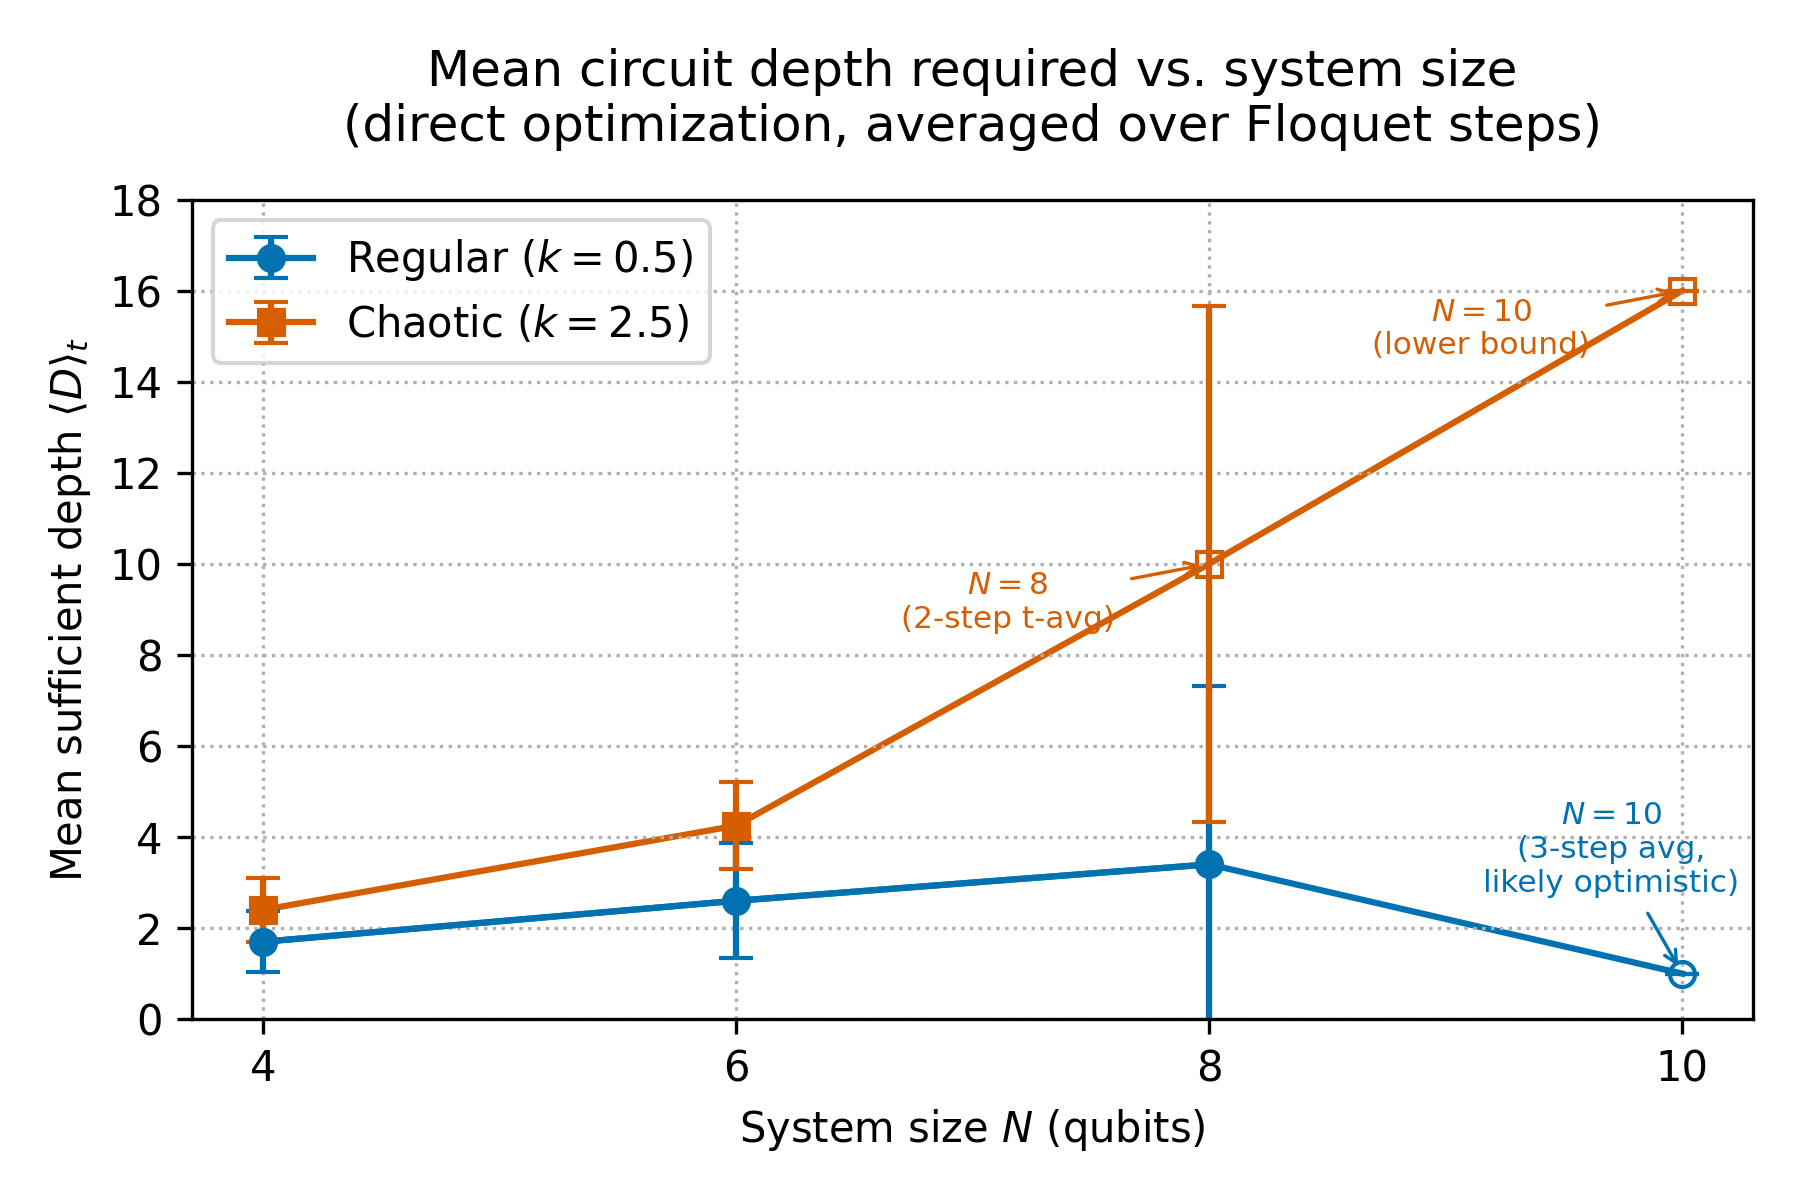
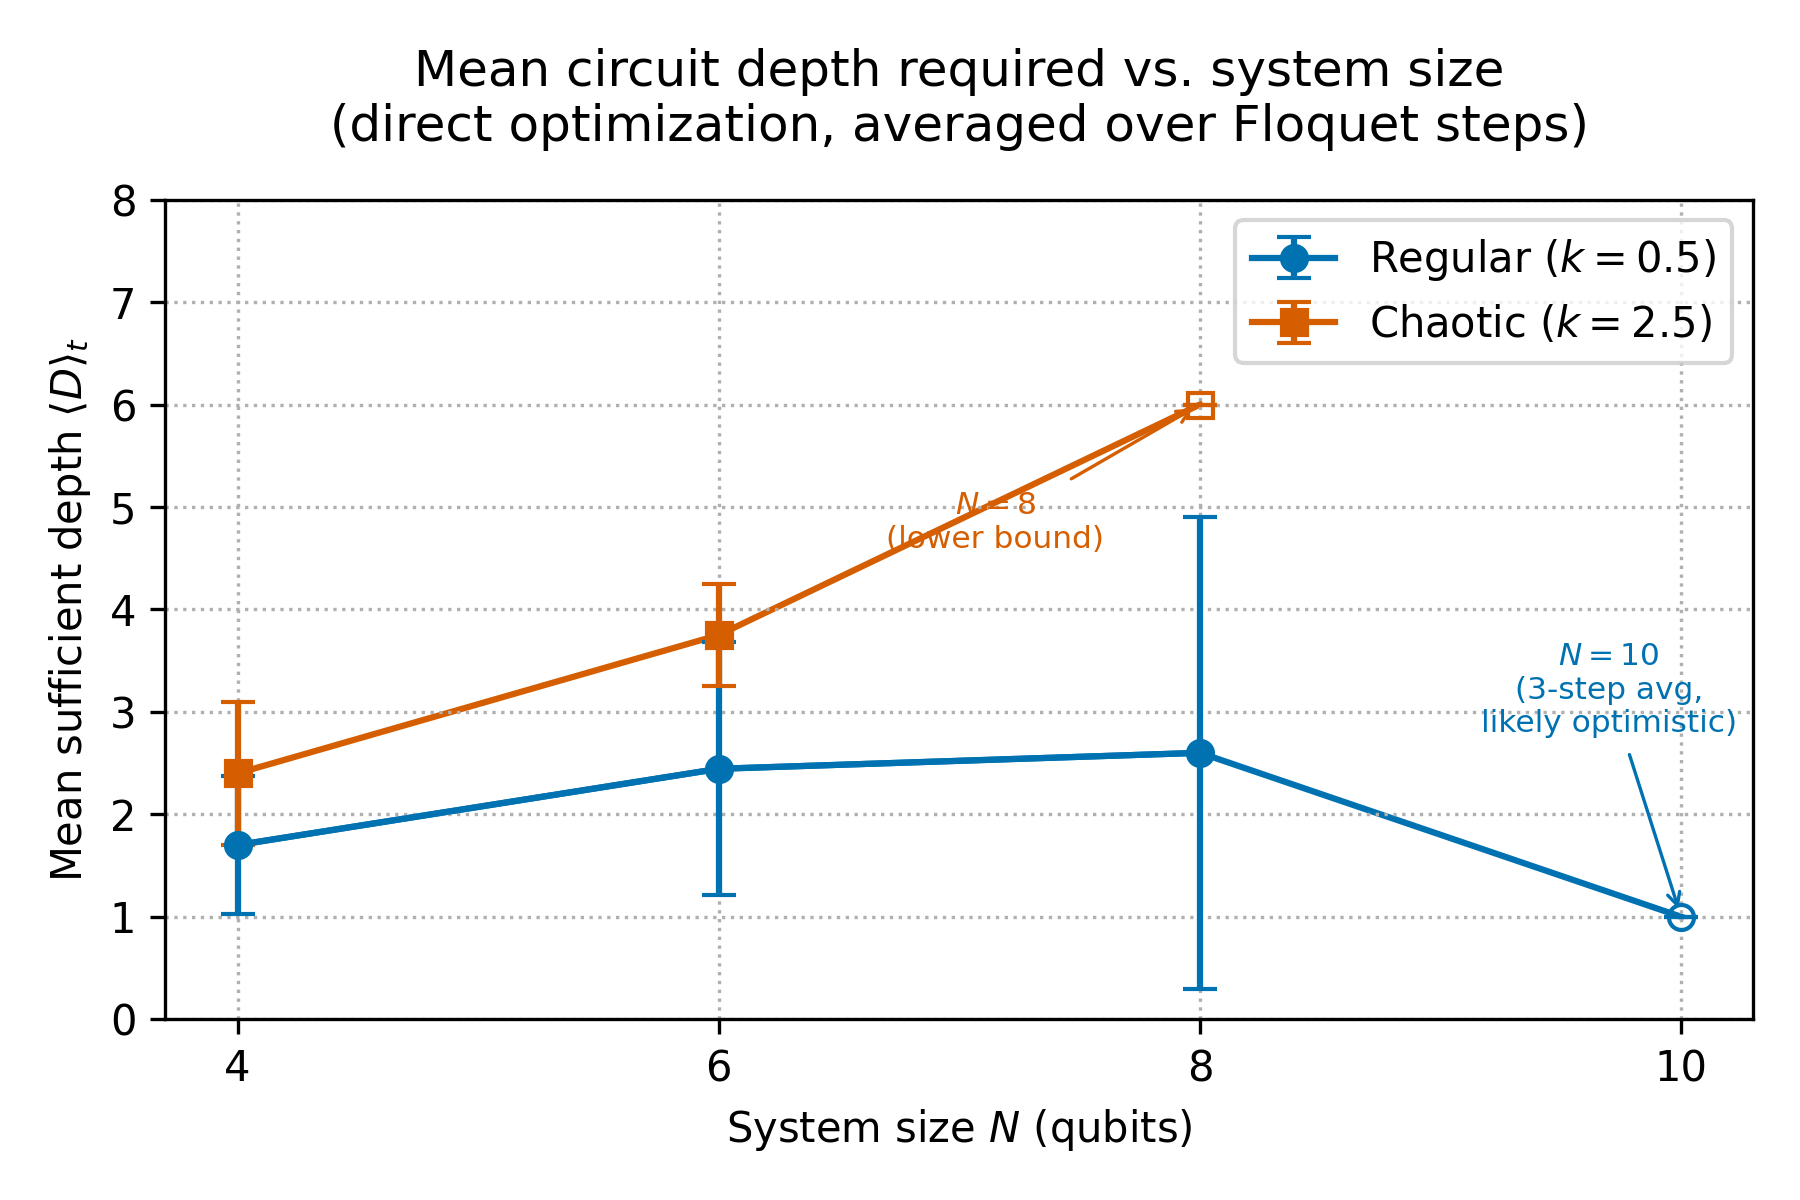
Fixed and Updated Git

diff --git a/large_scale_scaling.py b/large_scale_scaling.py
@@ -5,12 +5,38 @@ CHANGES FROM ORIGINAL (open-task list):
   [B3/Fig12-annotation] N=8 chaotic point is ALWAYS drawn as an open square
     and ALWAYS annotated on-plot with a text label -- no longer conditional on
     n_eval<=1.  Text adapts: "1 step (lower bound)" vs "{n} steps (t-avg)".
-  [multi-step-N8]  TIME_BUDGET for N=8 raised to 600 s so multiple Floquet
+  [multi-step-N8]  TIME_BUDGET for N=8 raised so multiple Floquet
     steps are averaged wherever the machine allows.
-  [N10]  system_sizes now includes N=10 with a 600 s budget.  If N=10 runs
+  [N10]  system_sizes now includes N=10 with its own budget.  If N=10 runs
     out of time or memory it is skipped gracefully and flagged in stdout.
   [TeX-output]  All numerical results are printed at the end in a form that
     can be pasted directly into the manuscript.
+
+CHANGES FOR 50-RESTART RERUN (this version):
+  [N_RESTARTS]  Bumped 12 -> 50 to match Table III's stated methodology
+    ("Optimizer restarts -- 50") instead of leaving Fig. 11/12 on a silently
+    weaker search than every other depth result in the paper.
+  [TIME_BUDGET_TABLE]  Scaled by the same 50/12 ~= 4.17x factor, since the
+    restart loop below runs every restart to completion before declaring a
+    depth insufficient, so per-depth cost scales ~linearly with n_restarts.
+    Leaving the old (12-restart-tuned) budgets in place would have caused
+    this run to evaluate even fewer Floquet steps than the sparse 1-2 you
+    already have at N=8/10 -- possibly zero. Treat these as a floor, not a
+    target: raise further if you want denser step coverage.
+  [PRECOMPUTED -> checkpoint]  The old PRECOMPUTED dict hardcoded results
+    computed under N_RESTARTS=12. Setting N_RESTARTS=50 without touching
+    that dict would have caused the script to print
+    "[RESTORED FROM PRIOR RUN, NOT RECOMPUTED]" and silently reuse the old
+    12-restart numbers for every N -- defeating the entire point of this
+    change. It has been replaced with a disk-backed checkpoint
+    (figures/depth_scaling_checkpoint.json) keyed on the FULL run config
+    (eps_opt, n_steps, ceiling_offset, n_restarts). If the saved config
+    doesn't match the current constants below, the checkpoint is ignored
+    and everything recomputes fresh -- this class of bug (silently reusing
+    results computed under a different setting) can't happen again even if
+    you change N_RESTARTS a third time. It also checkpoints incrementally
+    after each (N, k) finishes, not just at the very end of main(), so a
+    crash on N=10 no longer costs you the already-finished N=4/6/8 results.
 
 All other logic (depth search, Ansatz, regular/chaotic split, residual-first
 policy, etc.) is UNCHANGED from the corrected original.
@@ -31,36 +57,83 @@ EPS_OPT        = 0.05
 N_STEPS        = 10          # max Floquet steps to attempt per (N, k)
 K_CHAOTIC      = 2.5
 K_REGULAR      = 0.5
-N_RESTARTS     = 12
+N_RESTARTS     = 50          # was 12 -- now matches Table III's stated "50"
 CEILING_OFFSET = 6
 MAXITER        = 200
 
-# N=8 budget raised from 180 s → 600 s; N=10 given 600 s.
-TIME_BUDGET_TABLE = {4: 60.0, 6: 150.0, 8: 600.0, 10: 600.0}
-TIME_BUDGET_DEFAULT = 600.0
+# Scaled from the original {4: 60.0, 6: 150.0, 8: 600.0, 10: 600.0} by the
+# same 50/12 ~= 4.1667x factor as N_RESTARTS, since the restart loop runs to
+# completion on failure (needed to certify a depth "insufficient"), so cost
+# scales ~linearly with n_restarts. This is a starting point, not a
+# guarantee of full 10-step coverage at N=8/10 -- it wasn't enough for that
+# even at 12 restarts. Raise further if you want denser data and are
+# willing to let it run longer (overnight with caffeinate, as before).
+TIME_BUDGET_TABLE = {4: 250.0, 6: 625.0, 8: 2500.0, 10: 2500.0}
+TIME_BUDGET_DEFAULT = 2500.0
 
 # Set to False to skip N=10 (fast CI run):
 TRY_N10 = True
 
-# ── [PATCH] Results already obtained before the machine died mid-run on
-# N=10. Restored verbatim from the terminal output of that run so we don't
-# burn time recomputing N=4/6/8, which are deterministic given the fixed
-# per-point RNG seed (N, t, D, r) -- rerunning them would give byte-identical
-# numbers anyway, just slowly. Format: (mean, std, max, n_steps, all_converged).
-PRECOMPUTED = {
-    (4, 2.5): (2.40, 0.70, 3, 10, True),   # N=4 chaotic
-    (4, 0.5): (1.70, 0.67, 3, 10, True),   # N=4 regular
-    (6, 2.5): (4.25, 0.96, 5, 4, True),    # N=6 chaotic (time budget after t=4)
-    (6, 0.5): (2.60, 1.26, 4, 10, True),   # N=6 regular
-    (8, 2.5): (10.00, 5.66, 14, 2, False), # N=8 chaotic (t=2 hit ceiling)
-    (8, 0.5): (3.40, 3.91, 10, 5, True),   # N=8 regular (time budget after t=5)
-    (10, 2.5): (16.00, 0.00, 16, 1, False), # N=10 chaotic (t=1 hit ceiling=16, confirmed complete)
-    # N=10 regular is NOT precomputed -- it got through t=1,2,3 (all D=1)
-    # before the old unbounded-mid-t bug caused a 36-hour stall. It will
-    # rerun from t=1, but is now genuinely bounded by the fixed time check
-    # below, so even a slow t will stop within the 600s budget instead of
-    # hanging.
-}
+# ── [PATCH] Disk-backed checkpoint, replacing the old hardcoded PRECOMPUTED
+# dict. Keyed on the full run config so results computed under a different
+# N_RESTARTS (or eps_opt / n_steps / ceiling_offset) are never silently
+# reused -- if the saved config doesn't match, the checkpoint is ignored
+# and that (N, k) recomputes fresh. Saved incrementally after every (N, k)
+# so a crash partway through (e.g. during N=10) doesn't lose the results
+# already computed for smaller N.
+CHECKPOINT_PATH = "figures/depth_scaling_checkpoint.json"
+
+
+def _checkpoint_config():
+    return {
+        "eps_opt": EPS_OPT,
+        "n_steps": N_STEPS,
+        "ceiling_offset": CEILING_OFFSET,
+        "n_restarts": N_RESTARTS,
+    }
+
+
+def _load_checkpoint():
+    """Load per-(N,k) results already computed under the CURRENT config.
+    If no checkpoint file exists, or it was written under a different
+    config (e.g. an older N_RESTARTS=12 run), returns an empty cache so
+    every (N,k) recomputes fresh -- rather than silently mixing results
+    computed under different restart counts."""
+    if not os.path.exists(CHECKPOINT_PATH):
+        return {}
+    try:
+        with open(CHECKPOINT_PATH) as fh:
+            raw = json.load(fh)
+    except (json.JSONDecodeError, OSError):
+        print(f"[CHECKPOINT] {CHECKPOINT_PATH} unreadable -- starting fresh.",
+              flush=True)
+        return {}
+
+    if raw.get("config") != _checkpoint_config():
+        print(f"[CHECKPOINT] Found {CHECKPOINT_PATH} but its config "
+              f"{raw.get('config')} does not match the current config "
+              f"{_checkpoint_config()} -- ignoring stale checkpoint, "
+              f"recomputing everything under the current config.",
+              flush=True)
+        return {}
+
+    cache = {}
+    for key_str, v in raw.get("results", {}).items():
+        N_str, k_str = key_str.split(",")
+        cache[(int(N_str), float(k_str))] = tuple(v)
+    if cache:
+        print(f"[CHECKPOINT] Loaded {len(cache)} completed (N,k) result(s) "
+              f"from {CHECKPOINT_PATH} (config matches current run).",
+              flush=True)
+    return cache
+
+
+def _save_checkpoint(cache):
+    os.makedirs(os.path.dirname(CHECKPOINT_PATH) or ".", exist_ok=True)
+    serializable = {f"{N},{k}": list(v) for (N, k), v in cache.items()}
+    with open(CHECKPOINT_PATH, "w") as fh:
+        json.dump({"config": _checkpoint_config(), "results": serializable},
+                  fh, indent=2)
 
 
 # ── Core search ─────────────────────────────────────────────────────────────
@@ -320,6 +393,8 @@ def main():
     if TRY_N10:
         system_sizes.append(10)
 
+    checkpoint = _load_checkpoint()
+
     mean_cha, std_cha, max_cha = [], [], []
     mean_reg, std_reg, max_reg = [], [], []
     neval_cha, neval_reg       = [], []
@@ -331,12 +406,13 @@ def main():
         print(f"\n{'='*55}")
         print(f"N={N} | chaotic (k={K_CHAOTIC}) …")
         key_cha = (N, K_CHAOTIC)
-        if key_cha in PRECOMPUTED:
-            m, s, mx, ne, _ = PRECOMPUTED[key_cha]
-            print(f"  [RESTORED FROM PRIOR RUN, NOT RECOMPUTED]")
+        if key_cha in checkpoint:
+            m, s, mx, ne, _ = checkpoint[key_cha]
+            print(f"  [RESTORED FROM CHECKPOINT, NOT RECOMPUTED "
+                  f"-- n_restarts={N_RESTARTS} matches saved config]")
         else:
             try:
-                m, s, mx, ne, _ = depth_stats(N, K_CHAOTIC)
+                m, s, mx, ne, conv = depth_stats(N, K_CHAOTIC)
             except MemoryError:
                 print(f"  N={N} chaotic: MemoryError — skipping N={N}.", flush=True)
                 if N == 10:
@@ -344,20 +420,27 @@ def main():
                           "Set TRY_N10=False to suppress.", flush=True)
                 system_sizes = system_sizes[:system_sizes.index(N)]
                 break
+            checkpoint[key_cha] = (m, s, mx, ne, conv)
+            _save_checkpoint(checkpoint)
+            print(f"  [COMPUTED FRESH -- checkpointed to {CHECKPOINT_PATH}]")
         print(f"  → mean depth={m:.2f} ± {s:.2f}, max={mx}, over {ne} steps")
         mean_cha.append(m); std_cha.append(s); max_cha.append(mx); neval_cha.append(ne)
 
         print(f"N={N} | regular (k={K_REGULAR}) …")
         key_reg = (N, K_REGULAR)
-        if key_reg in PRECOMPUTED:
-            m, s, mx, ne, _ = PRECOMPUTED[key_reg]
-            print(f"  [RESTORED FROM PRIOR RUN, NOT RECOMPUTED]")
+        if key_reg in checkpoint:
+            m, s, mx, ne, _ = checkpoint[key_reg]
+            print(f"  [RESTORED FROM CHECKPOINT, NOT RECOMPUTED "
+                  f"-- n_restarts={N_RESTARTS} matches saved config]")
         else:
             try:
-                m, s, mx, ne, _ = depth_stats(N, K_REGULAR)
+                m, s, mx, ne, conv = depth_stats(N, K_REGULAR)
             except MemoryError:
                 print(f"  N={N} regular: MemoryError — using placeholder.", flush=True)
-                m, s, mx, ne = (mean_reg[-1] if mean_reg else 1.0), 0.0, 1, 0
+                m, s, mx, ne, conv = (mean_reg[-1] if mean_reg else 1.0), 0.0, 1, 0, False
+            checkpoint[key_reg] = (m, s, mx, ne, conv)
+            _save_checkpoint(checkpoint)
+            print(f"  [COMPUTED FRESH -- checkpointed to {CHECKPOINT_PATH}]")
         print(f"  → mean depth={m:.2f} ± {s:.2f}, max={mx}, over {ne} steps")
         mean_reg.append(m); std_reg.append(s); max_reg.append(mx); neval_reg.append(ne)
 

diff --git a/adapt_vqa_baseline.py b/adapt_vqa_baseline.py
@@ -15,6 +15,16 @@ CHANGES FROM ORIGINAL (open-task list):
     retained and now saves both the figure and a JSON file with the raw
     variance data for TeX reference.
   [tex-output]  Every new function prints clearly labelled % TeX blocks.
+  [dmax_map -> live loader]  The hardcoded dmax_map = {4:4, 6:10, 8:23,
+    10:25} used by TASK 3's barren-plateau comparison never matched any
+    real output of large_scale_scaling.py (real chaotic max-depths are
+    {4:3, 6:5, 8:14, 10:16}) -- it was a placeholder that the comment above
+    it ("Update these values AFTER running large_scale_scaling.py!") was
+    never actually followed for. Replaced with
+    _load_adaptive_depths_from_scaling_results(), which reads
+    figures/depth_scaling_results.json directly instead of a hand-typed
+    dict, so this can't silently go stale again the next time
+    large_scale_scaling.py is rerun (e.g. at N_RESTARTS=50).
 
 All prior logic (build_pool, _apply_op, _state_from_ops, adapt_vqa_prepare,
 layerwise_prepare, _parameter_shift_gradient, barren_plateau_gradient_variance,
@@ -559,6 +569,57 @@ def plot_barren_plateau_variance(result,
     return result
 
 
+# ── Adaptive depths for TASK 3, loaded live instead of hand-typed ──────────
+
+def _load_adaptive_depths_from_scaling_results(
+        path="figures/depth_scaling_results.json",
+        which="max", regime="chaotic", n_steps_max=10):
+    """Load the per-N circuit depth to use in the barren-plateau comparison
+    directly from large_scale_scaling.py's saved output, instead of a
+    hand-maintained dict that can silently go stale (as the old
+    dmax_map = {4:4, 6:10, 8:23, 10:25} did -- it never matched any real
+    run of large_scale_scaling.py).
+
+    which : "max" uses the worst-case sufficient depth per N (the same
+        Dmax convention used elsewhere in the paper, e.g. Fig. 10) --
+        the natural choice here since a single fixed Ansatz depth is
+        used for every trial at that N, so it should be one that's
+        actually sufficient rather than merely typical.
+        "mean" uses <D>_t rounded to the nearest integer instead.
+
+    Raises FileNotFoundError rather than silently falling back to a
+    placeholder -- this analysis is explicitly future work (Sec. IV C of
+    the paper currently defers it), so if the prerequisite data isn't on
+    disk yet, run large_scale_scaling.py first rather than guessing.
+    """
+    if not os.path.exists(path):
+        raise FileNotFoundError(
+            f"{path} not found. The barren-plateau adaptive-depth "
+            f"comparison (TASK 3) needs large_scale_scaling.py's saved "
+            f"results -- run that script first, then rerun this one.")
+    with open(path) as fh:
+        r = json.load(fh)
+
+    sizes = r["system_sizes"]
+    if which == "max":
+        depths = r[regime]["max_depth"]
+    elif which == "mean":
+        depths = [round(d) for d in r[regime]["mean_depth"]]
+    else:
+        raise ValueError(f"which must be 'max' or 'mean', got {which!r}")
+
+    n_eval = r[regime]["n_steps_evaluated"]
+    dmap   = dict(zip(sizes, depths))
+    for N, ne in zip(sizes, n_eval):
+        if ne < r.get("n_steps_max", n_steps_max):
+            print(f"[bp-depth] N={N}: adaptive depth {dmap[N]} is based on "
+                  f"only {ne} evaluated Floquet step(s) out of "
+                  f"{r.get('n_steps_max', n_steps_max)}, not the full "
+                  f"window -- same undersampling caveat as Fig. 11, treat "
+                  f"as provisional.", flush=True)
+    return dmap
+
+
 # ── __main__ ─────────────────────────────────────────────────────────────────
 
 if __name__ == "__main__":
@@ -611,9 +672,15 @@ if __name__ == "__main__":
     BP_SYSTEM_SIZES = [4, 6, 8, 10]
     BP_DEPTH_FIXED  = 8
 
-    # Adaptive depths from large_scale_scaling results (chaotic, k=2.5).
-    # Update these values AFTER running large_scale_scaling.py!
-    dmax_map = {4: 4, 6: 10, 8: 23, 10: 25}
+    # Adaptive depths from large_scale_scaling.py's actual saved output
+    # (figures/depth_scaling_results.json), loaded live rather than
+    # hand-typed -- see _load_adaptive_depths_from_scaling_results() above.
+    # Uses the worst-case (max) sufficient depth per N in the chaotic
+    # regime, same convention as Dmax elsewhere in the paper. N=8 and N=10
+    # are based on only 2 and 1 evaluated Floquet step(s) respectively
+    # (printed as a warning below), same caveat as Fig. 11.
+    dmax_map = _load_adaptive_depths_from_scaling_results(
+        which="max", regime="chaotic")
 
     def bp_depth_adaptive_fn(N_):
         return dmax_map.get(N_, N_ + 6)